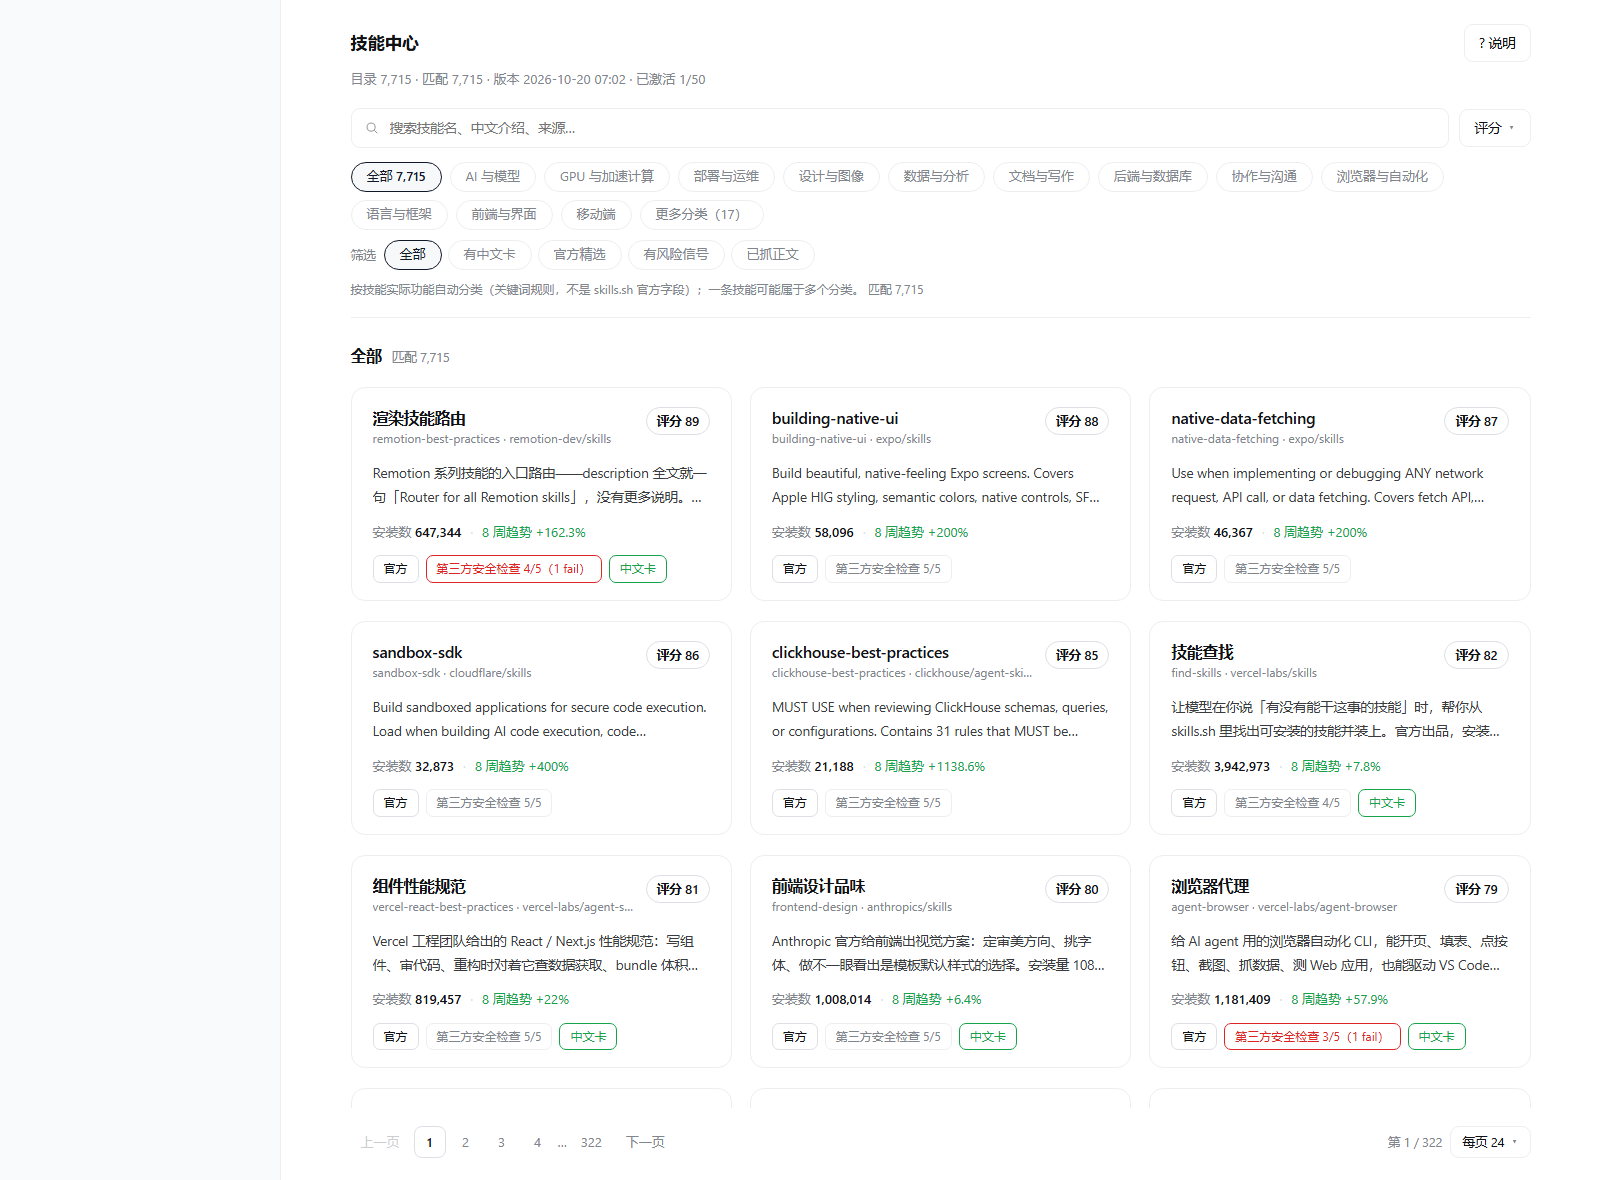
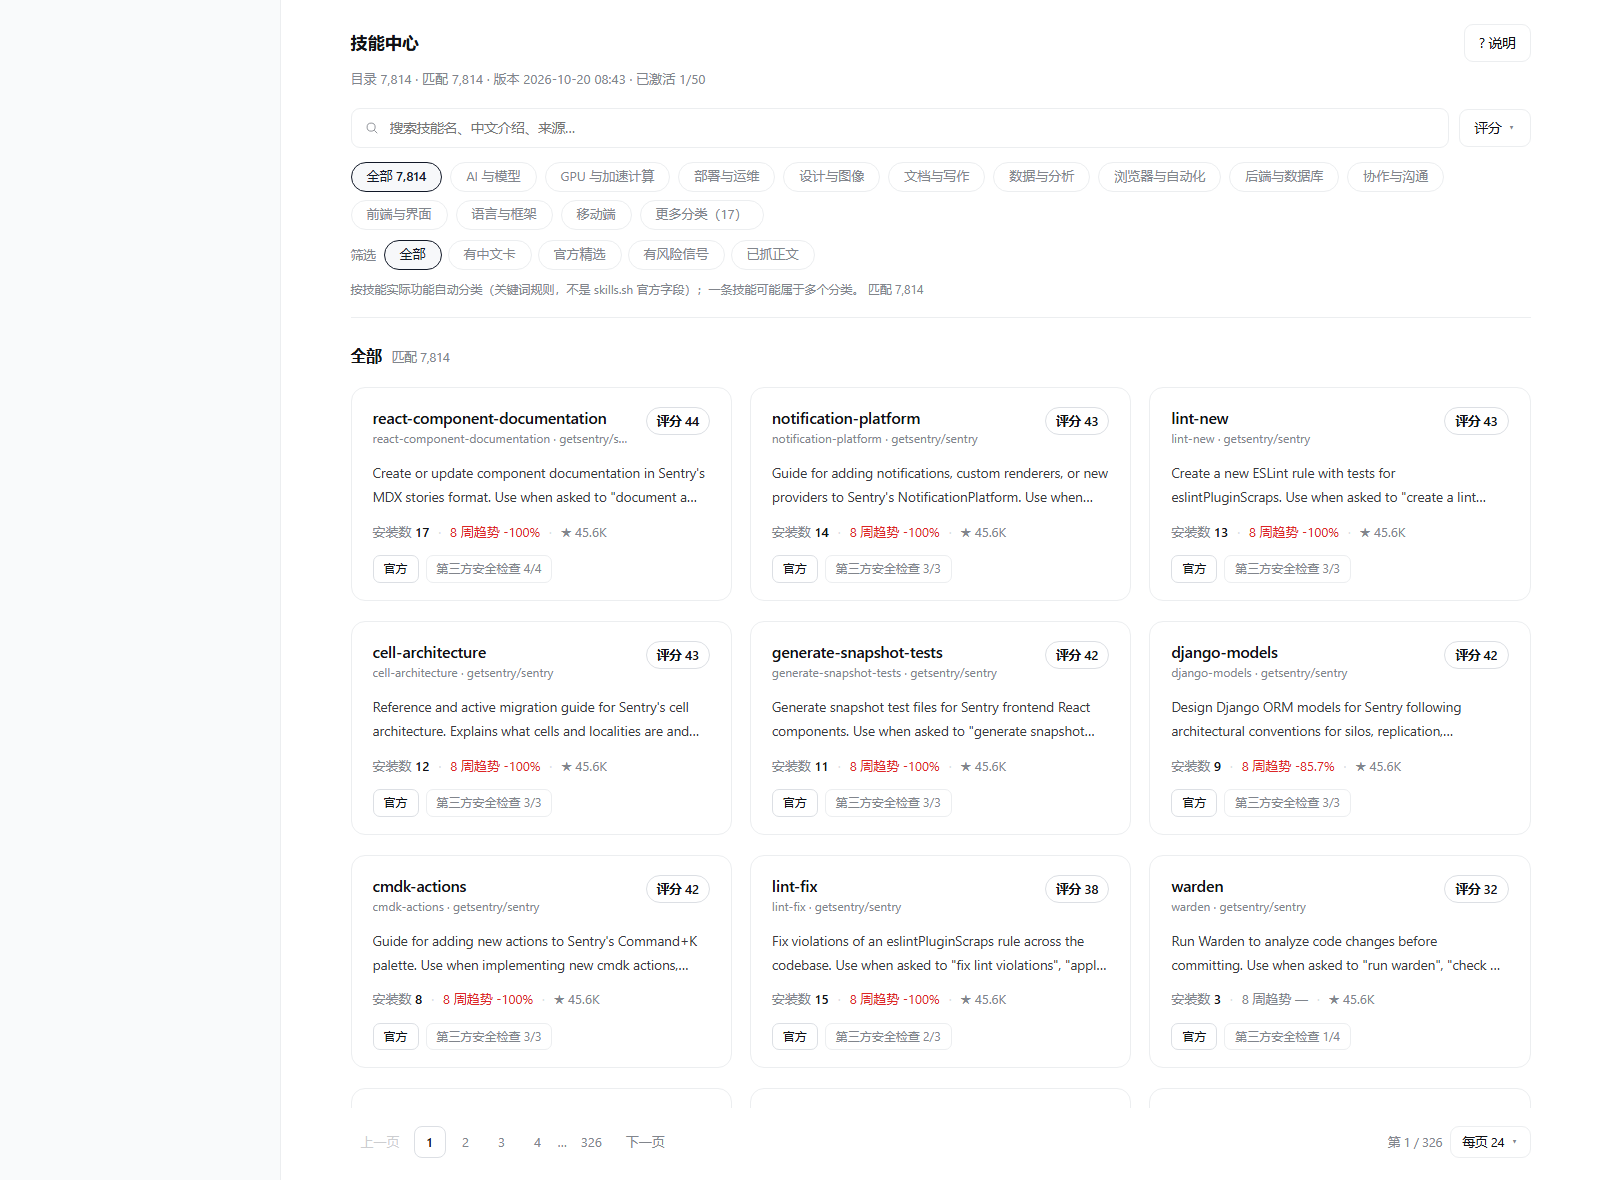
fix(sync): fall back to curl when the direct fetch is refused
Node's fetch goes direct while curl uses the system proxy on this machine, and
against *.public.blob.vercel-storage.com the direct path gets an HTTP 404 saying
'Store not found'. The old code only fell back to curl on network exceptions, so
an HTTP-level refusal looked like a real 404 and the sync just failed.

Now both paths fall back: retryable statuses (404/408/425/429/5xx) are retried
with backoff, then curl is tried with the same conditional header, and the etag
and final URL it reports are kept, so a 304 handled by curl still means 'nothing
to download'. The update check does the same with HEAD.

diff --git a/lib/sync.js b/lib/sync.js
@@ -103,19 +103,34 @@ async function readSource(source, { timeoutMs }) {
  * 直连 fetch；网络层失败（DNS/代理/超时）才回退 curl，HTTP 状态码失败不回退。
  * 带 `etag` 时发条件请求：304 表示远端没变，此时**一个字节都不下载**（Blob 的 304 是 0 字节）。
  */
+/** 值得重试的状态：Blob 覆盖写 latest 指针后的传播窗口会返回 404，限流与 5xx 同理。 */
+const RETRYABLE = new Set([404, 408, 425, 429, 500, 502, 503, 504]);
+const RETRY_DELAYS = [500, 1500];
+
 async function readHttp(url, timeoutMs, { etag } = {}) {
   const headers = { accept: 'application/json' };
   if (etag) headers['if-none-match'] = etag;
   try {
-    const response = await fetch(url, {
-      redirect: 'follow',
-      headers,
-      signal: AbortSignal.timeout(timeoutMs),
-    });
+    let response;
+    for (let attempt = 0; ; attempt += 1) {
+      response = await fetch(url, {
+        redirect: 'follow',
+        headers,
+        signal: AbortSignal.timeout(timeoutMs),
+      });
+      if (!RETRYABLE.has(response.status) || attempt >= RETRY_DELAYS.length) break;
+      await new Promise((resolve) => setTimeout(resolve, RETRY_DELAYS[attempt]));
+    }
     if (response.status === 304) {
       return { ok: true, unchanged: true, via: 'fetch', url: response.url || url, etag: etag || null };
     }
-    if (!response.ok) return { ok: false, reason: `http_${response.status}` };
+    if (!response.ok) {
+      // 直连拿到 404/5xx 时不能就此认定失败：本机对 Blob 域名会返回 404 "Store not found"，
+      // 而 curl（走系统代理）是好的。HTTP 层面失败同样回退一次 curl。
+      const curl = await curlGet(url, timeoutMs, { etag });
+      if (curl.ok) return { ...curl, fetchStatus: response.status };
+      return { ok: false, reason: `http_${response.status}` };
+    }
     const declared = Number(response.headers.get('content-length') || 0);
     if (declared > MAX_BYTES) return { ok: false, reason: `too_large: ${declared}` };
     const bytes = Buffer.from(await response.arrayBuffer());
@@ -129,9 +144,9 @@ async function readHttp(url, timeoutMs, { etag } = {}) {
       etag: response.headers.get('etag') || null,
     };
   } catch (error) {
-    // curl 回退不带条件头（走代理时行为更难预测），失败重下也比拿到半个文件强
-    const curl = await curlGet(url, timeoutMs);
-    if (curl.ok) return { ...curl, fetchError: message(error), url, etag: null };
+    // 网络层异常（DNS/代理/超时）→ curl
+    const curl = await curlGet(url, timeoutMs, { etag });
+    if (curl.ok) return { ...curl, fetchError: message(error) };
     return { ok: false, reason: `fetch_failed: ${message(error)}; curl_failed: ${curl.reason}` };
   }
 }
@@ -148,17 +163,31 @@ export async function checkForUpdate(options = {}) {
     return { ok: false, reason: 'no_baseline', checkedAt: new Date().toISOString() };
   }
   try {
-    const response = await fetch(url, {
-      method: 'HEAD',
-      headers: { 'if-none-match': meta.etag },
-      signal: AbortSignal.timeout(timeoutMs),
-    });
-    const remoteEtag = response.headers.get('etag');
+    let response;
+    for (let attempt = 0; ; attempt += 1) {
+      response = await fetch(url, {
+        method: 'HEAD',
+        headers: { 'if-none-match': meta.etag },
+        signal: AbortSignal.timeout(timeoutMs),
+      });
+      if (!RETRYABLE.has(response.status) || attempt >= RETRY_DELAYS.length) break;
+      await new Promise((resolve) => setTimeout(resolve, RETRY_DELAYS[attempt]));
+    }
+    let remoteEtag = response.headers.get('etag');
+    let status = response.status;
+    if (RETRYABLE.has(status) || status === 0) {
+      // 同 readHttp：直连打不通 Blob 域名时用 curl 再问一次
+      const curl = await curlGet(url, timeoutMs, { etag: meta.etag, head: true });
+      if (curl.ok) {
+        status = curl.unchanged ? 304 : 200;
+        remoteEtag = curl.etag || remoteEtag;
+      }
+    }
     return {
       ok: true,
-      updateAvailable: response.status === 200 && remoteEtag !== meta.etag,
-      notModified: response.status === 304,
-      status: response.status,
+      updateAvailable: status === 200 && remoteEtag !== meta.etag,
+      notModified: status === 304,
+      status,
       localVersion: meta.version ?? null,
       etag: remoteEtag || null,
       checkedAt: new Date().toISOString(),
@@ -168,16 +197,63 @@ export async function checkForUpdate(options = {}) {
   }
 }
 
-async function curlGet(url, timeoutMs) {
+/**
+ * 解析 `curl -D -` 的输出：最后一个 HTTP 响应块的状态行、头部与正文。
+ * 走 -L 时会有多段头部（每一跳一段），只认最后一段。
+ */
+function parseCurlOutput(buffer) {
+  const text = buffer.toString('latin1');
+  const marker = text.lastIndexOf('\r\nHTTP/');
+  const start = marker >= 0 ? marker + 2 : text.indexOf('HTTP/');
+  if (start < 0) return { status: 0, headers: {}, body: buffer };
+  const split = text.indexOf('\r\n\r\n', start);
+  const headText = split >= 0 ? text.slice(start, split) : text.slice(start);
+  const headers = {};
+  for (const line of headText.split('\r\n').slice(1)) {
+    const colon = line.indexOf(':');
+    if (colon > 0) headers[line.slice(0, colon).trim().toLowerCase()] = line.slice(colon + 1).trim();
+  }
+  const status = Number((headText.match(/^HTTP\/[\d.]+\s+(\d{3})/) || [])[1] || 0);
+  // 正文是二进制安全的：用 latin1 定位，按字节切
+  const bodyStart = split >= 0 ? Buffer.byteLength(text.slice(0, split + 4), 'latin1') : buffer.length;
+  return { status, headers, body: buffer.subarray(bodyStart) };
+}
+
+/**
+ * curl 回退：本机 Node fetch 走直连，访问 *.public.blob.vercel-storage.com 会拿到
+ * 404 "Store not found"（fake-ip/代理环境，见 HANDOFF §5）；curl 走系统代理是通的。
+ * 所以不仅网络异常要回退，HTTP 层面失败也要回退——还要把 etag 与最终地址带回来。
+ */
+async function curlGet(url, timeoutMs, { etag, head = false } = {}) {
   const seconds = Math.max(1, Math.round(timeoutMs / 1000));
+  const args = [
+    '-sS',
+    '-L',
+    '--max-time',
+    String(seconds),
+    '-H',
+    'accept: application/json',
+  ];
+  if (etag) args.push('-H', `If-None-Match: ${etag}`);
+  if (head) args.push('-I');
+  else args.push('-D', '-');
+  args.push(url);
   try {
-    const { stdout } = await run(
-      'curl',
-      ['-fsSL', '--max-time', String(seconds), '-H', 'accept: application/json', url],
-      { maxBuffer: MAX_BYTES, encoding: 'buffer' },
-    );
-    const bytes = Buffer.from(stdout);
-    return { ok: true, bytes, via: 'curl' };
+    const { stdout } = await run('curl', args, { maxBuffer: MAX_BYTES, encoding: 'buffer' });
+    const parsed = head
+      ? { status: Number((stdout.toString('latin1').match(/HTTP\/[\d.]+\s+(\d{3})/) || [])[1] || 0), headers: {} }
+      : parseCurlOutput(Buffer.from(stdout));
+    if (head) {
+      for (const line of stdout.toString('latin1').split(/\r?\n/)) {
+        const colon = line.indexOf(':');
+        if (colon > 0) parsed.headers[line.slice(0, colon).trim().toLowerCase()] = line.slice(colon + 1).trim();
+      }
+    }
+    if (parsed.status === 304) return { ok: true, unchanged: true, via: 'curl', url, etag: parsed.headers.etag || etag || null };
+    if (parsed.status < 200 || parsed.status >= 300) return { ok: false, reason: `curl_http_${parsed.status}` };
+    const bytes = parsed.body ?? Buffer.alloc(0);
+    if (bytes.length > MAX_BYTES) return { ok: false, reason: `too_large: ${bytes.length}` };
+    return { ok: true, bytes, via: 'curl', url, etag: parsed.headers.etag || null };
   } catch (error) {
     return { ok: false, reason: message(error) };
   }
